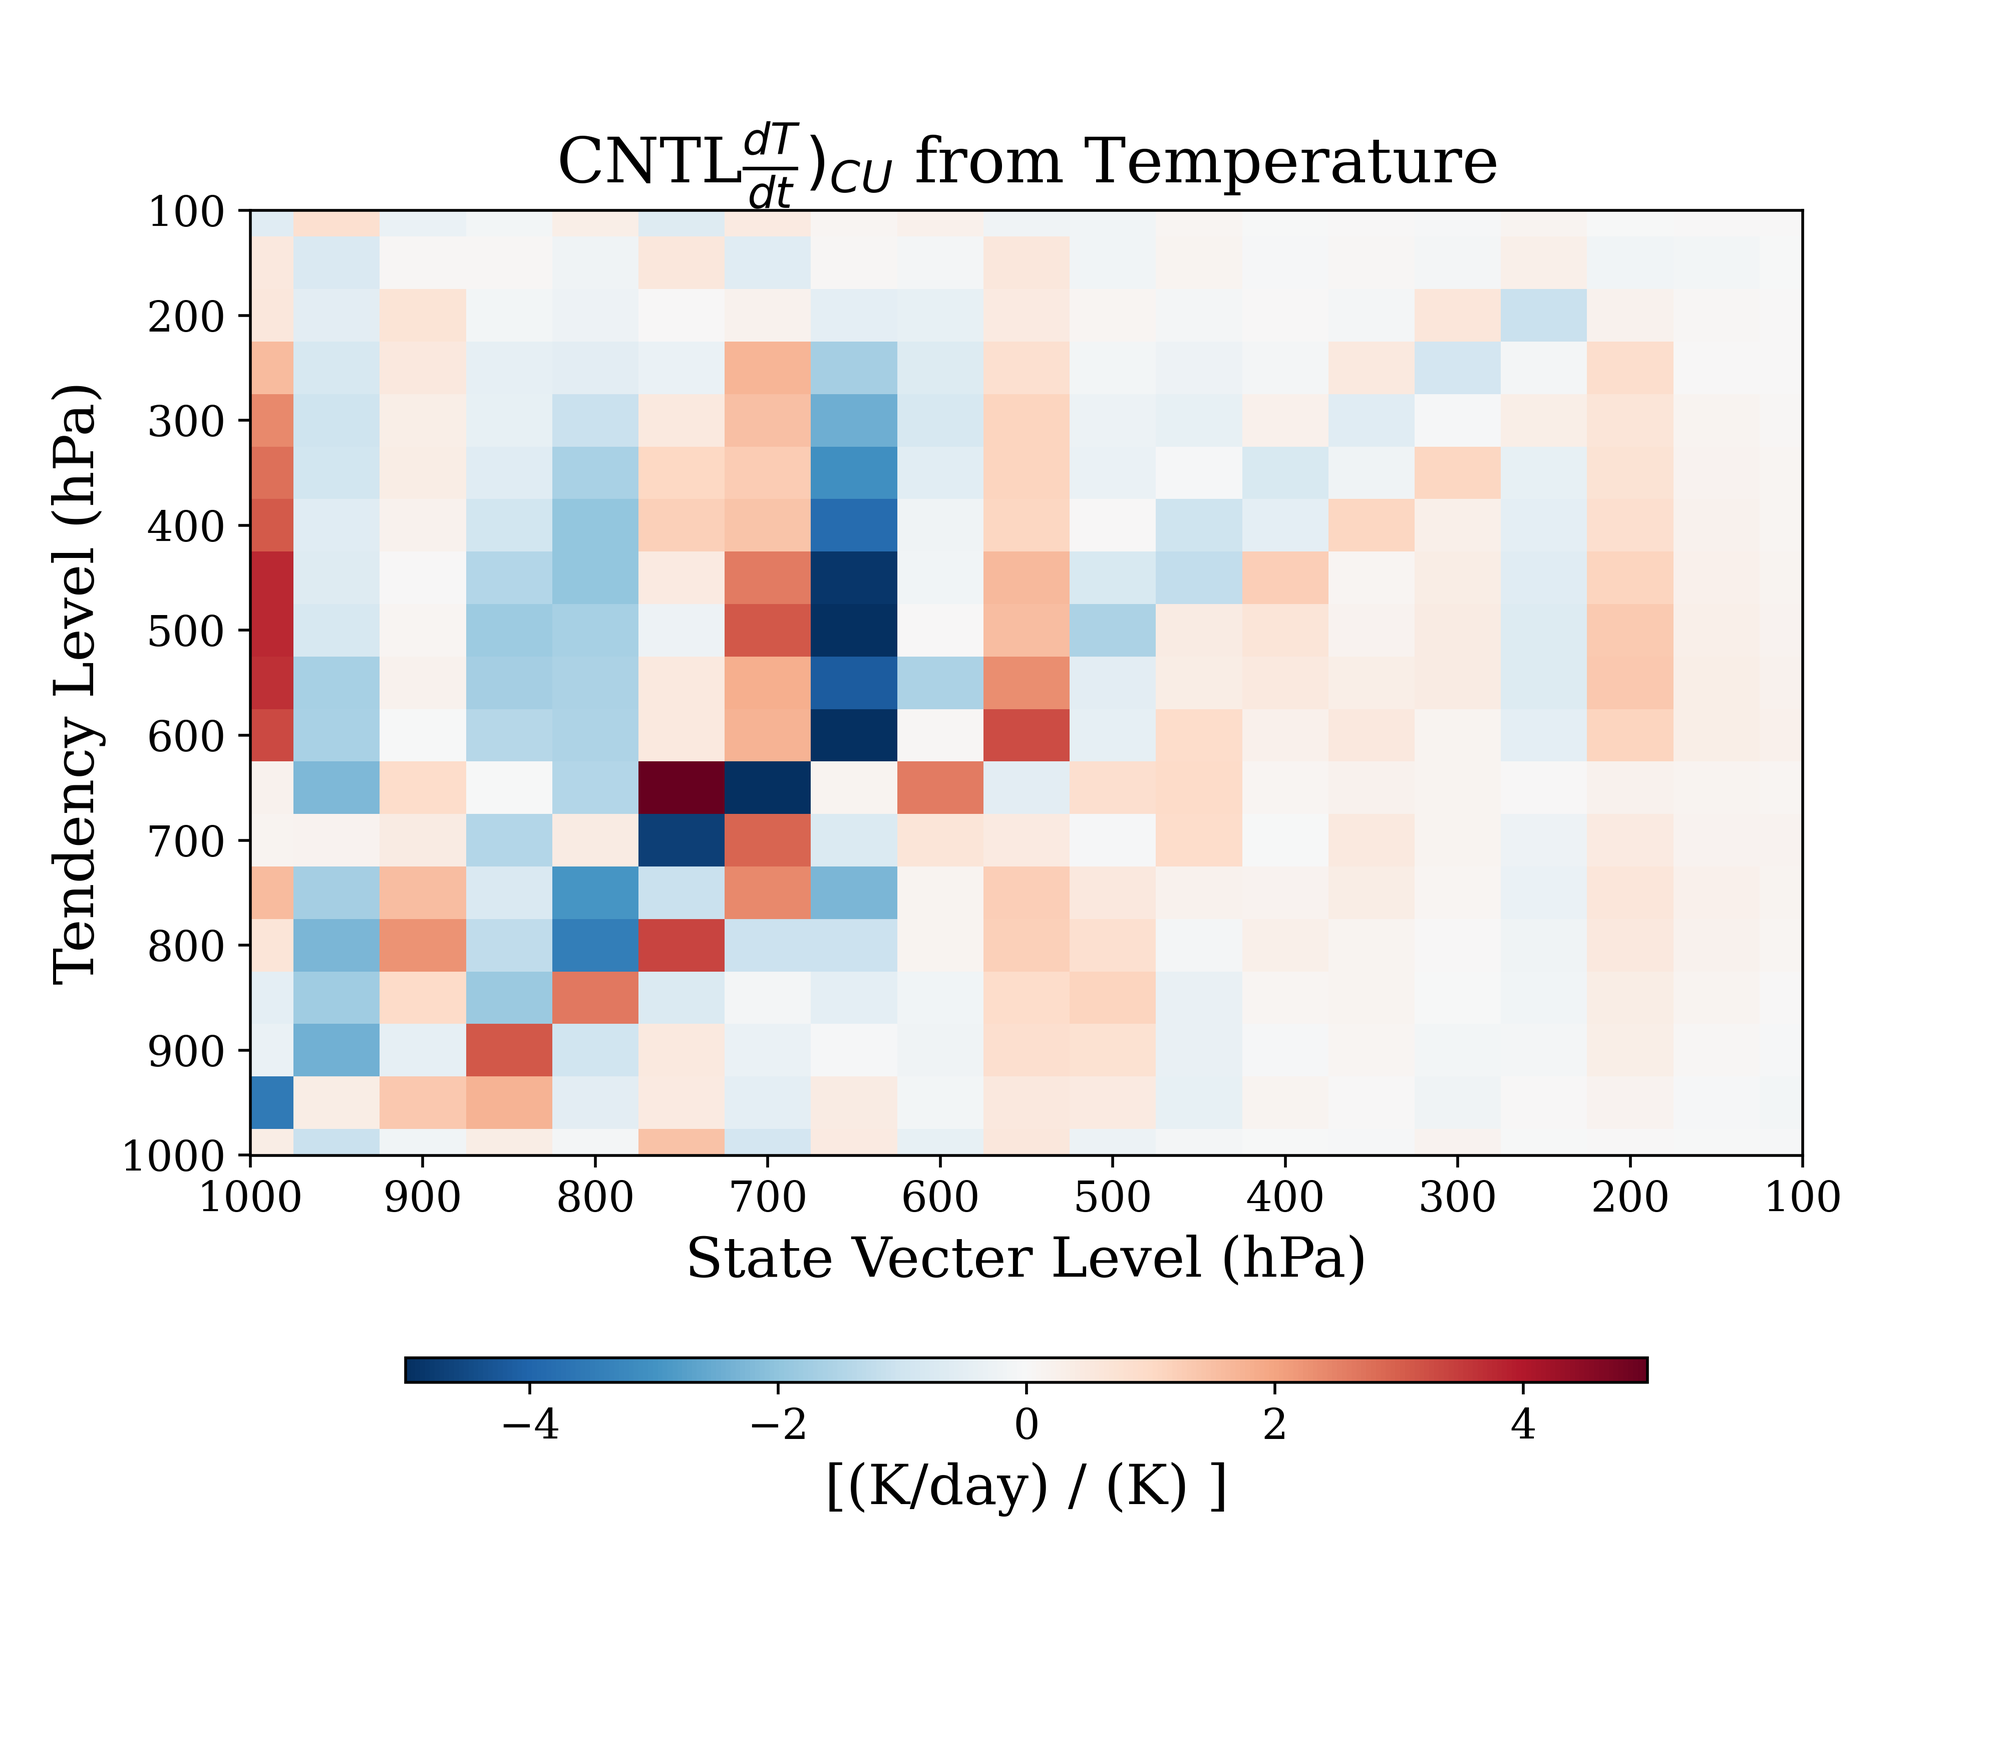
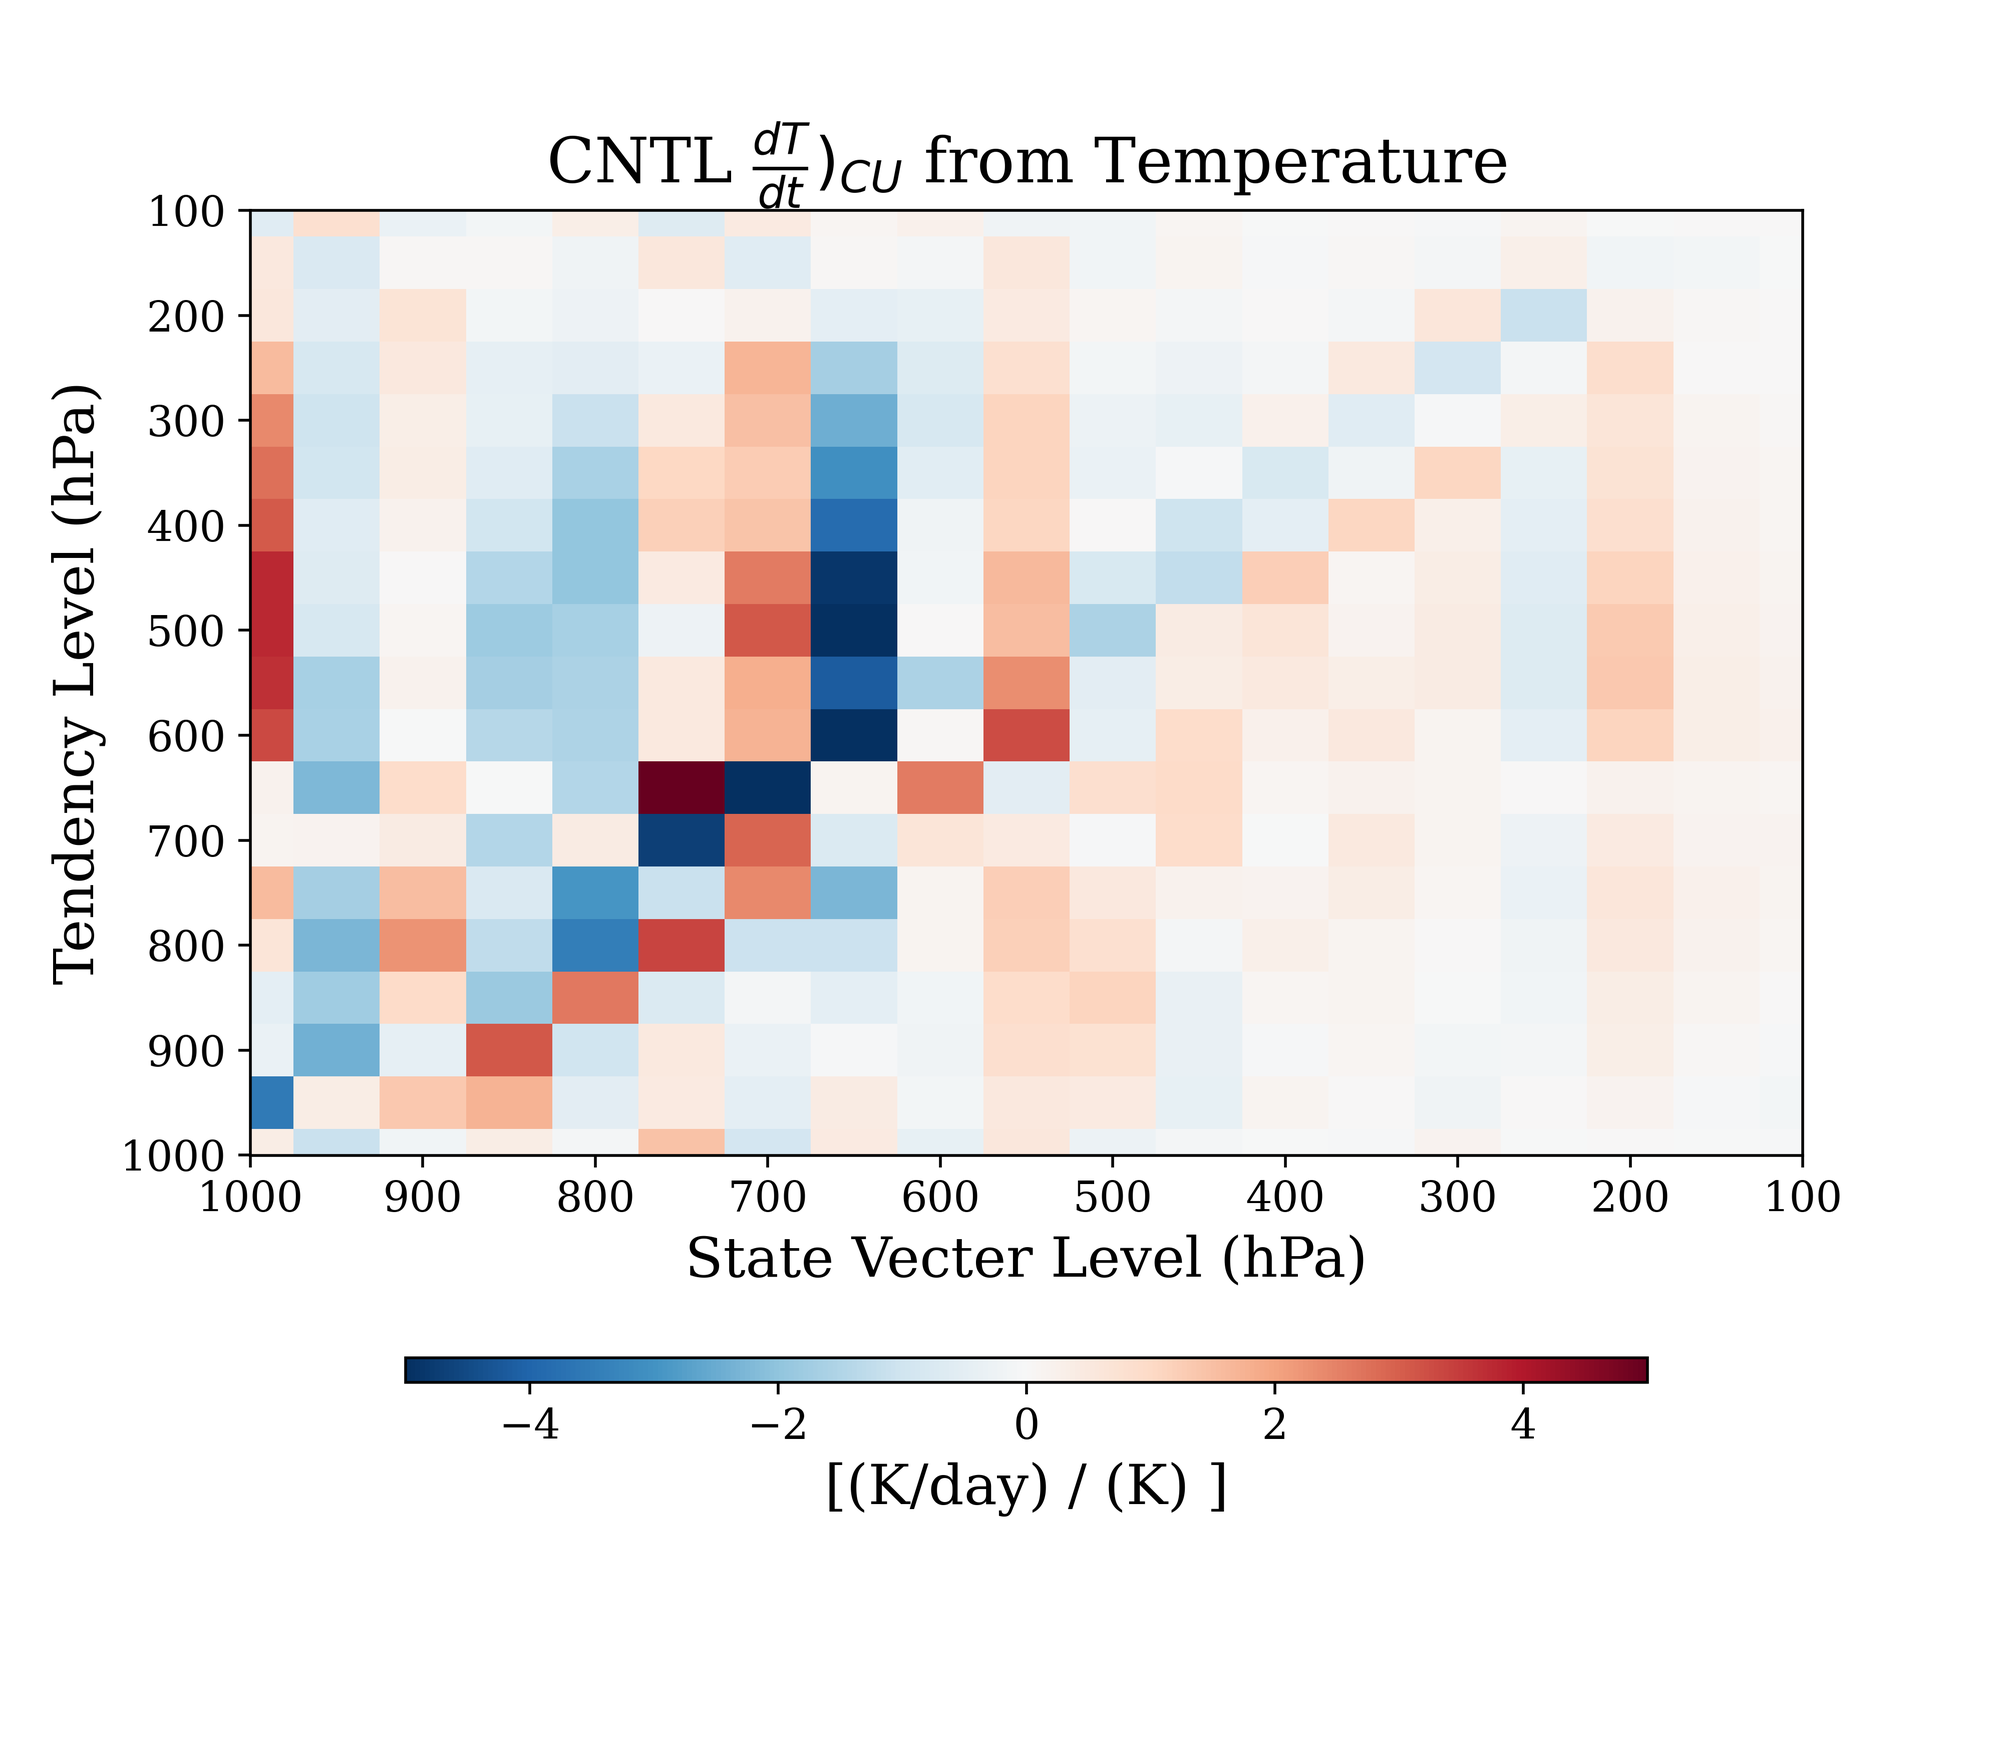
new LRF images

Changed region(s): [[0.2812, 0.0623, 0.75, 0.1246]]

diff --git a/MPAS/LRF/LRF_new/NCRF.py b/MPAS/LRF/LRF_new/NCRF.py
@@ -120,6 +120,10 @@ lw_lrf = NormEqu(data_itp["rtratenlw"], state_vec)
 sw_lrf = NormEqu(data_itp["rtratensw"], state_vec)
 cu_lrf = NormEqu(conv_tend, state_vec)
 
+lw_lrf[:, 19:23] = np.nan
+sw_lrf[:, 19:23] = np.nan
+cu_lrf[:, 19:23] = np.nan
+
 lrf_dict = {
     "lev"   : lev_itp,
     "lw_lrf": lw_lrf,
@@ -127,11 +131,12 @@ lrf_dict = {
     "cu_lrf": cu_lrf
 }
 
+
 # ================= #
 # save as pkl
 joblib.dump(lrf_dict, f"/home/b11209013/2024_Research/MPAS/LRF/LRF_new/LRF_file/lrf_{case}.pkl")
 
-# ================= #
+# ================== #
 # plot out linear response function
 plt.rcParams.update({
     'font.size': 12,
@@ -153,7 +158,7 @@ plt.xlim(1000, 100)
 plt.ylim(1000, 100)
 plt.xlabel('State Vecter Level (hPa)')
 plt.ylabel('Tendency Level (hPa)')
-plt.title(f'{case} Longwave Heating from Temperature')
+plt.title(case+r" $\frac{dT}{dt})_{LW}$ from Temperature")
 plt.colorbar(orientation='horizontal', label='[(K/day) / (K) ]', aspect=50, shrink=0.8)
 plt.savefig(f'{image_path}lw_t_t.png', dpi=500)
 plt.show()
@@ -167,63 +172,63 @@ plt.xlim(1000, 100)
 plt.ylim(1000, 100)
 plt.xlabel('State Vecter Level (hPa)')
 plt.ylabel('Tendency Level (hPa)')
-plt.title(f'{case} Longwave Heating from Moisture')
+plt.title(case+r' $\frac{dT}{dt})_{LW}$ from Moisture')
 plt.colorbar(orientation='horizontal', label='[(K/day) / (g/kg)]', aspect=50, shrink=0.8)
 plt.savefig(f'{image_path}lw_t_q.png', dpi=500)
 plt.show()
 plt.close()
 
 plt.figure(figsize=(8, 7))
-plt.pcolormesh(lev_itp, lev_itp, sw_lrf[:, :19], cmap="RdBu_r", vmin=-2.5, vmax=2.5)
+plt.pcolormesh(lev_itp, lev_itp, sw_lrf[:, :19], cmap="RdBu_r", vmin=-3, vmax=3)
 plt.xticks(np.linspace(100, 1000, 10))
 plt.yticks(np.linspace(100, 1000, 10))
 plt.xlim(1000, 100)
 plt.ylim(1000, 100)
 plt.xlabel('State Vecter Level (hPa)')
 plt.ylabel('Tendency Level (hPa)')
-plt.title(f'{case} Shortwave Heating from Temperature')
+plt.title(case+r' $\frac{dT}{dt})_{SW}$ from Temperature')
 plt.colorbar(orientation='horizontal', label='[(K/day) / (K) ]', aspect=50, shrink=0.8)
 plt.savefig(f'{image_path}sw_t_t.png', dpi=500)
 plt.show()
 plt.close()
 
 plt.figure(figsize=(8, 7))
-plt.pcolormesh(lev_itp, lev_itp, sw_lrf[:, 19:], cmap="RdBu_r", vmin=-2.5, vmax=2.5)
+plt.pcolormesh(lev_itp, lev_itp, sw_lrf[:, 19:], cmap="RdBu_r", vmin=-3, vmax=3)
 plt.xticks(np.linspace(100, 1000, 10))
 plt.yticks(np.linspace(100, 1000, 10))
 plt.xlim(1000, 100)
 plt.ylim(1000, 100)
 plt.xlabel('State Vecter Level (hPa)')
 plt.ylabel('Tendency Level (hPa)')
-plt.title(f'{case} Shortwave Heating from Moisture')
+plt.title(case+r' $\frac{dT}{dt})_{SW}$ from Moisture')
 plt.colorbar(orientation='horizontal', label='[(K/day) / (g/kg)]', aspect=50, shrink=0.8)
 plt.savefig(f'{image_path}sw_t_q.png', dpi=500)
 plt.show()
 plt.close()
 
 plt.figure(figsize=(8, 7))
-plt.pcolormesh(lev_itp, lev_itp, cu_lrf[:19, :19], cmap="RdBu_r", vmin=-2.5, vmax=2.5)
+plt.pcolormesh(lev_itp, lev_itp, cu_lrf[:19, :19], cmap="RdBu_r", vmin=-5, vmax=5)
 plt.xticks(np.linspace(100, 1000, 10))
 plt.yticks(np.linspace(100, 1000, 10))
 plt.xlim(1000, 100)
 plt.ylim(1000, 100)
 plt.xlabel('State Vecter Level (hPa)')
 plt.ylabel('Tendency Level (hPa)')
-plt.title(f'{case} Cumulus Heating from Temperature')
+plt.title(case+r' $\frac{dT}{dt})_{CU}$ from Temperature')
 plt.colorbar(orientation='horizontal', label='[(K/day) / (K) ]', aspect=50, shrink=0.8)
 plt.savefig(f'{image_path}cu_t_t.png', dpi=500)
 plt.show()
 plt.close()
 
 plt.figure(figsize=(8, 7))
-plt.pcolormesh(lev_itp, lev_itp, cu_lrf[:19, 19:], cmap="RdBu_r", vmin=-2.5, vmax=2.5)
+plt.pcolormesh(lev_itp, lev_itp, cu_lrf[:19, 19:], cmap="RdBu_r", vmin=-5, vmax=5)
 plt.xticks(np.linspace(100, 1000, 10))
 plt.yticks(np.linspace(100, 1000, 10))
 plt.xlim(1000, 100)
 plt.ylim(1000, 100)
 plt.xlabel('State Vecter Level (hPa)')
 plt.ylabel('Tendency Level (hPa)')
-plt.title(f'{case} Cumulus Heating from Moisture')
+plt.title(case+r' $\frac{dT}{dt}_{CU}$ from Moisture')
 plt.colorbar(orientation='horizontal', label='[(K/day) / (g/kg)]', aspect=50, shrink=0.8)
 plt.savefig(f'{image_path}cu_t_q.png', dpi=500)
 plt.show()
@@ -237,21 +242,21 @@ plt.xlim(1000, 100)
 plt.ylim(1000, 100)
 plt.xlabel('State Vecter Level (hPa)')
 plt.ylabel('Tendency Level (hPa)')
-plt.title(f'{case} Cumulus Moistening from Temperature')
+plt.title(case+r' $\frac{dq}{dt}_{CU}$ from Temperature')
 plt.colorbar(orientation='horizontal', label='[(K/day) / (K) ]', aspect=50, shrink=0.8)
 plt.savefig(f'{image_path}cu_q_t.png', dpi=500)
 plt.show()
 plt.close()
 
 plt.figure(figsize=(8, 7))
-plt.pcolormesh(lev_itp, lev_itp, cu_lrf[19:, 19:], cmap="RdBu_r", vmin=-2.5, vmax=2.5)
+plt.pcolormesh(lev_itp, lev_itp, cu_lrf[19:, 19:], cmap="RdBu_r", vmin=-5, vmax=5)
 plt.xticks(np.linspace(100, 1000, 10))
 plt.yticks(np.linspace(100, 1000, 10))
 plt.xlim(1000, 100)
 plt.ylim(1000, 100)
 plt.xlabel('State Vecter Level (hPa)')
 plt.ylabel('Tendency Level (hPa)')
-plt.title(f'{case} Cumulus Moistening from Moisture')
+plt.title(case+r' $\frac{dq}{dt})_{CU}$ from Moisture')
 plt.colorbar(orientation='horizontal', label='[(K/day) / (g/kg)]', aspect=50, shrink=0.8)
 plt.savefig(f'{image_path}cu_q_q.png', dpi=500)
 plt.show()

diff --git a/MPAS/LRF/LRF_new/NSC.py b/MPAS/LRF/LRF_new/NSC.py
@@ -120,6 +120,10 @@ lw_lrf = NormEqu(data_itp["rtratenlw"], state_vec)
 sw_lrf = NormEqu(data_itp["rtratensw"], state_vec)
 cu_lrf = NormEqu(conv_tend, state_vec)
 
+lw_lrf[:, 19:23] = np.nan
+sw_lrf[:, 19:23] = np.nan
+cu_lrf[:, 19:23] = np.nan
+
 lrf_dict = {
     "lev"   : lev_itp,
     "lw_lrf": lw_lrf,
@@ -153,7 +157,7 @@ plt.xlim(1000, 100)
 plt.ylim(1000, 100)
 plt.xlabel('State Vecter Level (hPa)')
 plt.ylabel('Tendency Level (hPa)')
-plt.title(f'{case} Longwave Heating from Temperature')
+plt.title(case+r" $\frac{dT}{dt})_{LW}$ from Temperature")
 plt.colorbar(orientation='horizontal', label='[(K/day) / (K) ]', aspect=50, shrink=0.8)
 plt.savefig(f'{image_path}lw_t_t.png', dpi=500)
 plt.show()
@@ -167,63 +171,63 @@ plt.xlim(1000, 100)
 plt.ylim(1000, 100)
 plt.xlabel('State Vecter Level (hPa)')
 plt.ylabel('Tendency Level (hPa)')
-plt.title(f'{case} Longwave Heating from Moisture')
+plt.title(case+r' $\frac{dT}{dt})_{LW}$ from Moisture')
 plt.colorbar(orientation='horizontal', label='[(K/day) / (g/kg)]', aspect=50, shrink=0.8)
 plt.savefig(f'{image_path}lw_t_q.png', dpi=500)
 plt.show()
 plt.close()
 
 plt.figure(figsize=(8, 7))
-plt.pcolormesh(lev_itp, lev_itp, sw_lrf[:, :19], cmap="RdBu_r", vmin=-2.5, vmax=2.5)
+plt.pcolormesh(lev_itp, lev_itp, sw_lrf[:, :19], cmap="RdBu_r", vmin=-3, vmax=3)
 plt.xticks(np.linspace(100, 1000, 10))
 plt.yticks(np.linspace(100, 1000, 10))
 plt.xlim(1000, 100)
 plt.ylim(1000, 100)
 plt.xlabel('State Vecter Level (hPa)')
 plt.ylabel('Tendency Level (hPa)')
-plt.title(f'{case} Shortwave Heating from Temperature')
+plt.title(case+r' $\frac{dT}{dt})_{SW}$ from Temperature')
 plt.colorbar(orientation='horizontal', label='[(K/day) / (K) ]', aspect=50, shrink=0.8)
 plt.savefig(f'{image_path}sw_t_t.png', dpi=500)
 plt.show()
 plt.close()
 
 plt.figure(figsize=(8, 7))
-plt.pcolormesh(lev_itp, lev_itp, sw_lrf[:, 19:], cmap="RdBu_r", vmin=-2.5, vmax=2.5)
+plt.pcolormesh(lev_itp, lev_itp, sw_lrf[:, 19:], cmap="RdBu_r", vmin=-3, vmax=3)
 plt.xticks(np.linspace(100, 1000, 10))
 plt.yticks(np.linspace(100, 1000, 10))
 plt.xlim(1000, 100)
 plt.ylim(1000, 100)
 plt.xlabel('State Vecter Level (hPa)')
 plt.ylabel('Tendency Level (hPa)')
-plt.title(f'{case} Shortwave Heating from Moisture')
+plt.title(case+r' $\frac{dT}{dt})_{SW}$ from Moisture')
 plt.colorbar(orientation='horizontal', label='[(K/day) / (g/kg)]', aspect=50, shrink=0.8)
 plt.savefig(f'{image_path}sw_t_q.png', dpi=500)
 plt.show()
 plt.close()
 
 plt.figure(figsize=(8, 7))
-plt.pcolormesh(lev_itp, lev_itp, cu_lrf[:19, :19], cmap="RdBu_r", vmin=-2.5, vmax=2.5)
+plt.pcolormesh(lev_itp, lev_itp, cu_lrf[:19, :19], cmap="RdBu_r", vmin=-5, vmax=5)
 plt.xticks(np.linspace(100, 1000, 10))
 plt.yticks(np.linspace(100, 1000, 10))
 plt.xlim(1000, 100)
 plt.ylim(1000, 100)
 plt.xlabel('State Vecter Level (hPa)')
 plt.ylabel('Tendency Level (hPa)')
-plt.title(f'{case} Cumulus Heating from Temperature')
+plt.title(case+r' $\frac{dT}{dt})_{CU}$ from Temperature')
 plt.colorbar(orientation='horizontal', label='[(K/day) / (K) ]', aspect=50, shrink=0.8)
 plt.savefig(f'{image_path}cu_t_t.png', dpi=500)
 plt.show()
 plt.close()
 
 plt.figure(figsize=(8, 7))
-plt.pcolormesh(lev_itp, lev_itp, cu_lrf[:19, 19:], cmap="RdBu_r", vmin=-2.5, vmax=2.5)
+plt.pcolormesh(lev_itp, lev_itp, cu_lrf[:19, 19:], cmap="RdBu_r", vmin=-5, vmax=5)
 plt.xticks(np.linspace(100, 1000, 10))
 plt.yticks(np.linspace(100, 1000, 10))
 plt.xlim(1000, 100)
 plt.ylim(1000, 100)
 plt.xlabel('State Vecter Level (hPa)')
 plt.ylabel('Tendency Level (hPa)')
-plt.title(f'{case} Cumulus Heating from Moisture')
+plt.title(case+r' $\frac{dT}{dt}_{CU}$ from Moisture')
 plt.colorbar(orientation='horizontal', label='[(K/day) / (g/kg)]', aspect=50, shrink=0.8)
 plt.savefig(f'{image_path}cu_t_q.png', dpi=500)
 plt.show()
@@ -237,22 +241,23 @@ plt.xlim(1000, 100)
 plt.ylim(1000, 100)
 plt.xlabel('State Vecter Level (hPa)')
 plt.ylabel('Tendency Level (hPa)')
-plt.title(f'{case} Cumulus Moistening from Temperature')
+plt.title(case+r' $\frac{dq}{dt}_{CU}$ from Temperature')
 plt.colorbar(orientation='horizontal', label='[(K/day) / (K) ]', aspect=50, shrink=0.8)
 plt.savefig(f'{image_path}cu_q_t.png', dpi=500)
 plt.show()
 plt.close()
 
 plt.figure(figsize=(8, 7))
-plt.pcolormesh(lev_itp, lev_itp, cu_lrf[19:, 19:], cmap="RdBu_r", vmin=-2.5, vmax=2.5)
+plt.pcolormesh(lev_itp, lev_itp, cu_lrf[19:, 19:], cmap="RdBu_r", vmin=-5, vmax=5)
 plt.xticks(np.linspace(100, 1000, 10))
 plt.yticks(np.linspace(100, 1000, 10))
 plt.xlim(1000, 100)
 plt.ylim(1000, 100)
 plt.xlabel('State Vecter Level (hPa)')
 plt.ylabel('Tendency Level (hPa)')
-plt.title(f'{case} Cumulus Moistening from Moisture')
+plt.title(case+r' $\frac{dq}{dt})_{CU}$ from Moisture')
 plt.colorbar(orientation='horizontal', label='[(K/day) / (g/kg)]', aspect=50, shrink=0.8)
 plt.savefig(f'{image_path}cu_q_q.png', dpi=500)
 plt.show()
 plt.close()
+

diff --git a/MPAS/LRF/LRF_new/CNTL.py b/MPAS/LRF/LRF_new/CNTL.py
@@ -157,7 +157,7 @@ plt.xlim(1000, 100)
 plt.ylim(1000, 100)
 plt.xlabel('State Vecter Level (hPa)')
 plt.ylabel('Tendency Level (hPa)')
-plt.title(case+r"$\frac{dT}{dt})_{LW}$ from Temperature")
+plt.title(case+r" $\frac{dT}{dt})_{LW}$ from Temperature")
 plt.colorbar(orientation='horizontal', label='[(K/day) / (K) ]', aspect=50, shrink=0.8)
 plt.savefig(f'{image_path}lw_t_t.png', dpi=500)
 plt.show()
@@ -171,7 +171,7 @@ plt.xlim(1000, 100)
 plt.ylim(1000, 100)
 plt.xlabel('State Vecter Level (hPa)')
 plt.ylabel('Tendency Level (hPa)')
-plt.title(case+r'$\frac{dT}{dt})_{LW}$ from Moisture')
+plt.title(case+r' $\frac{dT}{dt})_{LW}$ from Moisture')
 plt.colorbar(orientation='horizontal', label='[(K/day) / (g/kg)]', aspect=50, shrink=0.8)
 plt.savefig(f'{image_path}lw_t_q.png', dpi=500)
 plt.show()
@@ -185,7 +185,7 @@ plt.xlim(1000, 100)
 plt.ylim(1000, 100)
 plt.xlabel('State Vecter Level (hPa)')
 plt.ylabel('Tendency Level (hPa)')
-plt.title(case+r'$\frac{dT}{dt})_{SW}$ from Temperature')
+plt.title(case+r' $\frac{dT}{dt})_{SW}$ from Temperature')
 plt.colorbar(orientation='horizontal', label='[(K/day) / (K) ]', aspect=50, shrink=0.8)
 plt.savefig(f'{image_path}sw_t_t.png', dpi=500)
 plt.show()
@@ -199,7 +199,7 @@ plt.xlim(1000, 100)
 plt.ylim(1000, 100)
 plt.xlabel('State Vecter Level (hPa)')
 plt.ylabel('Tendency Level (hPa)')
-plt.title(case+r'$\frac{dT}{dt})_{SW}$ from Moisture')
+plt.title(case+r' $\frac{dT}{dt})_{SW}$ from Moisture')
 plt.colorbar(orientation='horizontal', label='[(K/day) / (g/kg)]', aspect=50, shrink=0.8)
 plt.savefig(f'{image_path}sw_t_q.png', dpi=500)
 plt.show()
@@ -213,7 +213,7 @@ plt.xlim(1000, 100)
 plt.ylim(1000, 100)
 plt.xlabel('State Vecter Level (hPa)')
 plt.ylabel('Tendency Level (hPa)')
-plt.title(case+r'$\frac{dT}{dt})_{CU}$ from Temperature')
+plt.title(case+r' $\frac{dT}{dt})_{CU}$ from Temperature')
 plt.colorbar(orientation='horizontal', label='[(K/day) / (K) ]', aspect=50, shrink=0.8)
 plt.savefig(f'{image_path}cu_t_t.png', dpi=500)
 plt.show()
@@ -227,7 +227,7 @@ plt.xlim(1000, 100)
 plt.ylim(1000, 100)
 plt.xlabel('State Vecter Level (hPa)')
 plt.ylabel('Tendency Level (hPa)')
-plt.title(case+r'$\frac{dT}{dt}_{CU}$ from Moisture')
+plt.title(case+r' $\frac{dT}{dt}_{CU}$ from Moisture')
 plt.colorbar(orientation='horizontal', label='[(K/day) / (g/kg)]', aspect=50, shrink=0.8)
 plt.savefig(f'{image_path}cu_t_q.png', dpi=500)
 plt.show()
@@ -241,7 +241,7 @@ plt.xlim(1000, 100)
 plt.ylim(1000, 100)
 plt.xlabel('State Vecter Level (hPa)')
 plt.ylabel('Tendency Level (hPa)')
-plt.title(case+r'$\frac{dq}{dt}_{CU}$ from Temperature')
+plt.title(case+r' $\frac{dq}{dt}_{CU}$ from Temperature')
 plt.colorbar(orientation='horizontal', label='[(K/day) / (K) ]', aspect=50, shrink=0.8)
 plt.savefig(f'{image_path}cu_q_t.png', dpi=500)
 plt.show()
@@ -255,7 +255,7 @@ plt.xlim(1000, 100)
 plt.ylim(1000, 100)
 plt.xlabel('State Vecter Level (hPa)')
 plt.ylabel('Tendency Level (hPa)')
-plt.title(case+r'$\frac{dq}{dt})_{CU}$ from Moisture')
+plt.title(case+r' $\frac{dq}{dt})_{CU}$ from Moisture')
 plt.colorbar(orientation='horizontal', label='[(K/day) / (g/kg)]', aspect=50, shrink=0.8)
 plt.savefig(f'{image_path}cu_q_q.png', dpi=500)
 plt.show()
